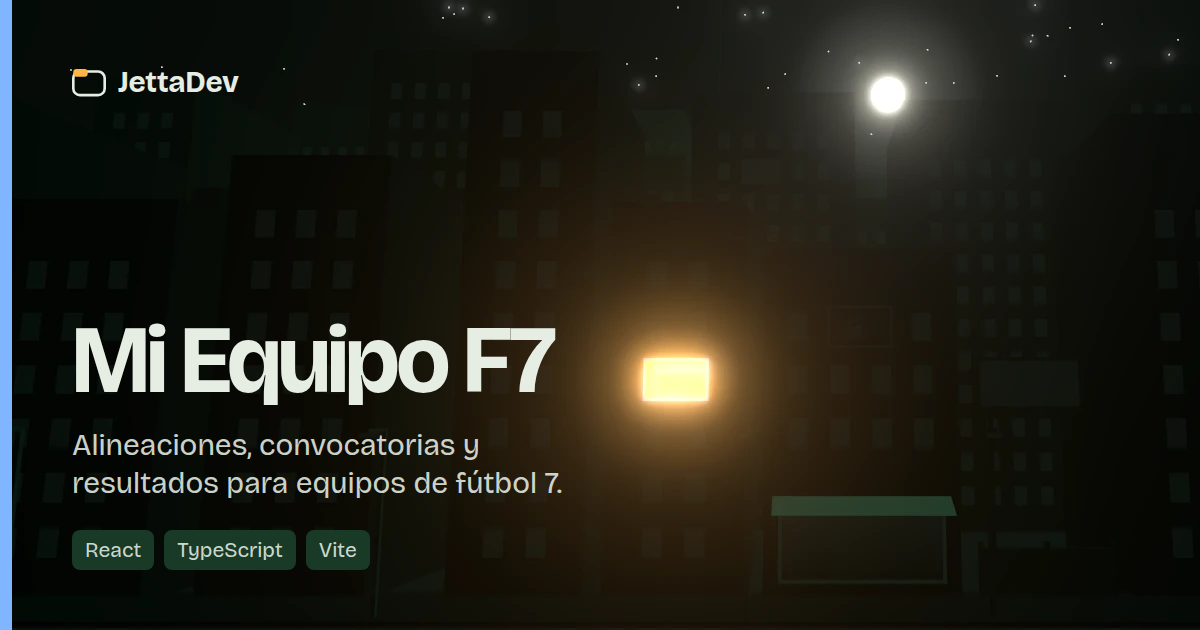
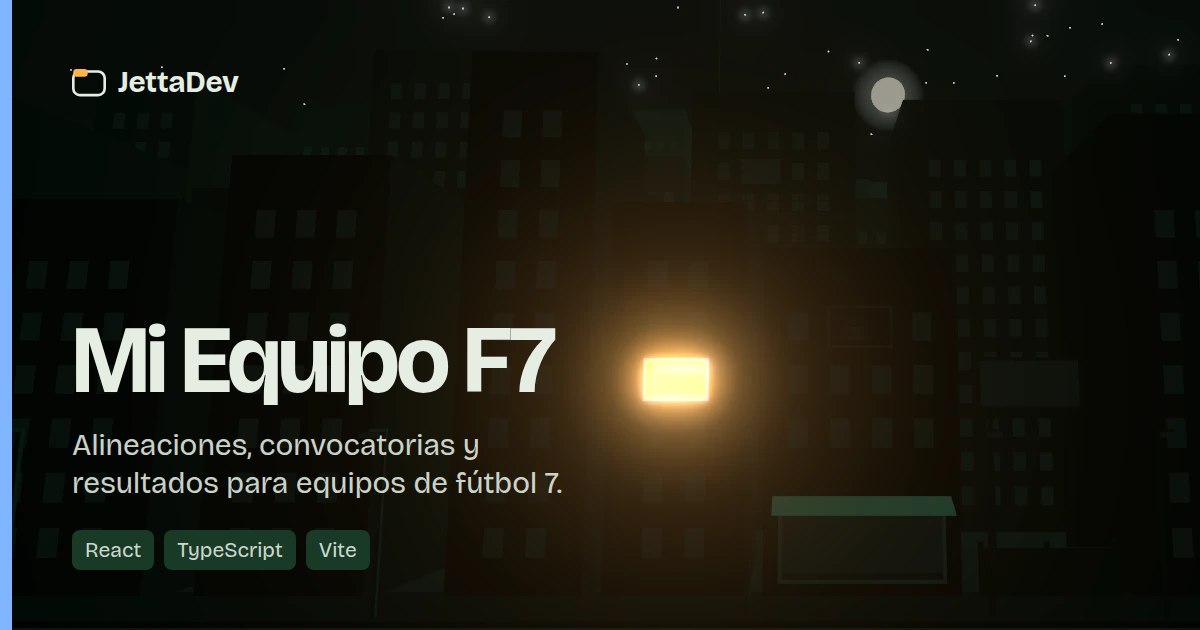
Convierte el escaparate en una vitrina con una tarjeta por app, quita el velo de la luna en móvil, ordena el móvil apaisado e ilumina el solar

Changed region(s): [[0.6475, 0.0, 0.8325, 0.3016]]

diff --git a/src/ciudad/ventanas.ts b/src/ciudad/ventanas.ts
@@ -3,6 +3,7 @@
 import {
   AdditiveBlending,
   Color,
+  DataTexture,
   DoubleSide,
   InstancedMesh,
   Matrix4,
@@ -158,6 +159,8 @@ export interface Ventanales {
   /** Sin bloom, el halo tiene que compensar la luz que falta. */
   sinBloom(activo: boolean): void;
   texturas: Texture[];
+  /** La captura de cada app (en el orden de `datos`), o null si no ha cargado: el escaparate las reutiliza. */
+  capturas: Promise<Texture | null>[];
   /** Se resuelve cuando han cargado (o fallado) todas las capturas. */
   listo: Promise<void>;
   /** Apagón: vidrio a oscuras, sin captura, sin halo y con el marco apagado (salvo `excepto`). */
@@ -171,7 +174,7 @@ export function crearVentanales(trazado: Trazado, datos: DatosVentana[], halo: C
   const luz = new Color(COLORES.calendula);
   let haloBase = 0.22;
   const apagada = new Color(COLORES.apagada);
-  const cargas: Promise<void>[] = [];
+  const cargas: Promise<Texture | null>[] = [];
   const marcos: Mesh<PlaneGeometry, MeshBasicMaterial>[] = [];
 
   const lista = trazado.proyectos.map((trazo, i): Ventanal => {
@@ -201,9 +204,10 @@ export function crearVentanales(trazado: Trazado, datos: DatosVentana[], halo: C
           uniforms.captura.value = textura;
           // Un ventanal apagado ya tiene la luz a oscuras: la captura no se ve
           if (!uniforms.luz.value.equals(apagada)) uniforms.hayCaptura.value = 1;
+          return textura;
         })
         // Sin captura, el ventanal es solo luz: no es motivo para no pintar la ciudad
-        .catch(() => {}),
+        .catch(() => null),
     );
 
     // Marco fino del color de la app, por debajo del umbral del bloom
@@ -253,6 +257,7 @@ export function crearVentanales(trazado: Trazado, datos: DatosVentana[], halo: C
     actualizar,
     sinBloom: (activo) => (haloBase = activo ? 0.42 : 0.22),
     texturas,
+    capturas: cargas,
     listo: Promise.all(cargas).then(() => {}),
     apagar: (excepto) => {
       lista.forEach((v, i) => {
@@ -346,37 +351,28 @@ export function crearEstudio(trazado: Trazado, halo: CanvasTexture): Estudio {
 
 // --- Escaparate de la tienda ----------------------------------------------------------
 
-// El interior de la tienda, en penumbra, con una franja de luz por app en su color: el
-// catálogo visto desde la calle. Las franjas pasan el umbral del bloom y brillan.
-const MAX_FRANJAS = 12;
+// El interior de la tienda: luz cálida y tenue (por debajo del umbral del bloom), más clara
+// arriba, con el suelo en sombra. Delante, las tarjetas de las apps (mallas aparte).
 const fragmentEscaparate = /* glsl */ `
   #include <common>
   #include <fog_pars_fragment>
-  uniform vec3 colores[${MAX_FRANJAS}];
-  uniform float cuantas;
-  uniform float brillo;
-  uniform float ancho;
   uniform vec3 fondo;
+  uniform vec3 calida;
+  uniform float brillo;
   varying vec2 vUv;
   void main() {
     vec2 p = vUv;
-    // Más luz arriba (el techo de la tienda) y el suelo, más oscuro, abajo
-    vec3 color = fondo * (0.5 + 0.7 * smoothstep(0.1, 0.95, p.y));
-    color = mix(color, fondo * 0.3, step(p.y, 0.1));
-    for (int i = 0; i < ${MAX_FRANJAS}; i++) {
-      if (float(i) >= cuantas) break;
-      float cx = 0.14 + 0.72 * (float(i) + 0.5) / cuantas;
-      float d = abs(p.x - cx) * ancho;
-      float franja = (1.0 - smoothstep(0.07, 0.1, d)) * smoothstep(0.16, 0.2, p.y) * (1.0 - smoothstep(0.84, 0.88, p.y));
-      float resplandor = exp(-d * d * 18.0) * smoothstep(0.1, 0.5, p.y) * 0.22;
-      color += colores[i] * (franja * (1.0 + brillo * 0.5) + resplandor * (1.0 + brillo));
-    }
-    // El dintel del escaparate, a contraluz
-    color *= 1.0 - 0.85 * step(0.93, p.y);
+    vec3 color = fondo + calida * (0.55 + 0.45 * smoothstep(0.15, 1.0, p.y)) * (1.0 + brillo * 0.6);
+    color = mix(color, fondo * 0.4, step(p.y, 0.08));
+    // El dintel, a contraluz
+    color *= 1.0 - 0.85 * step(0.94, p.y);
     gl_FragColor = vec4(color, 1.0);
     #include <colorspace_fragment>
     #include <fog_fragment>
   }`;
+
+/** Luz de las capturas expuestas: por debajo del umbral del bloom, para que no brillen como los ventanales. */
+const LUZ_TARJETA = 0.34;
 
 export interface Escaparate {
   objetivo: Objetivo;
@@ -385,17 +381,62 @@ export interface Escaparate {
   apagar(): void;
 }
 
-export function crearEscaparate(trazado: Trazado, datos: DatosVentana[], halo: CanvasTexture): Escaparate {
+/**
+ * El escaparate es una luna de cristal ancha con luz cálida dentro y, expuesta, una tarjeta por
+ * app como las del catálogo: su captura 16:10 con un marco fino en su `hue` y un pie oscuro.
+ * Caben todas: con más apps, las tarjetas se encogen (y pasan a dos filas desde la quinta).
+ */
+export function crearEscaparate(trazado: Trazado, datos: DatosVentana[], capturas: Promise<Texture | null>[], halo: CanvasTexture): Escaparate {
   const e = trazado.escaparate;
   const posicion = new Vector3(e.x, e.y, e.z);
-  const colores = Array.from({ length: MAX_FRANJAS }, (_, i) => new Color(datos[i]?.hue ?? '#000000'));
   const uniforms = UniformsUtils.merge([
     UniformsLib.fog,
-    { cuantas: { value: Math.min(datos.length, MAX_FRANJAS) }, brillo: { value: 0 }, ancho: { value: e.ancho }, fondo: { value: new Color(COLORES.tienda) } },
+    { fondo: { value: new Color(COLORES.tienda).multiplyScalar(0.5) }, calida: { value: new Color(COLORES.calendula).multiplyScalar(0.035) }, brillo: { value: 0 } },
   ]);
-  uniforms.colores = { value: colores };
   const vidrio = new Mesh(new PlaneGeometry(e.ancho, e.alto), new ShaderMaterial({ uniforms, vertexShader, fragmentShader: fragmentEscaparate, fog: true }));
   vidrio.position.copy(posicion);
+
+  // Tarjetas: en una fila (dos desde la quinta app), centradas un poco por encima del suelo de la tienda
+  const n = datos.length;
+  const filas = n > 4 ? 2 : 1;
+  const porFila = Math.ceil(n / filas);
+  const hueco = 0.14;
+  const util = { ancho: e.ancho * 0.86, alto: e.alto * 0.72 };
+  const ancho = Math.min(1.3, (util.ancho - hueco * (porFila - 1)) / porFila, ((util.alto - hueco * (filas - 1)) / filas - 0.08) * 1.6);
+  const alto = ancho / 1.6;
+  const tarjetas: Mesh<PlaneGeometry, MeshBasicMaterial>[] = [];
+  const piezas: Object3D[] = [];
+  const pie = new MeshBasicMaterial({ color: '#081510', toneMapped: false });
+  // Textura provisional del color del interior: con un mapa desde el principio, poner la captura
+  // no cambia el programa del material (cambiarlo obligaría a recompilar el shader en pleno vuelo)
+  const provisional = new DataTexture(Uint8Array.from([...new Color(COLORES.tienda).toArray().map((v) => Math.round(v * 255)), 255]), 1, 1);
+  provisional.needsUpdate = true;
+  datos.forEach((d, i) => {
+    const fila = Math.floor(i / porFila);
+    const enFila = fila === filas - 1 ? n - porFila * (filas - 1) : porFila;
+    const col = i - fila * porFila;
+    const x = e.x + (col - (enFila - 1) / 2) * (ancho + hueco);
+    const y = e.y + 0.08 + ((filas - 1) / 2 - fila) * (alto + hueco + 0.08);
+    const z = e.z + 0.02;
+
+    const tono = new Color(d.hue);
+    const luminancia = tono.r * 0.299 + tono.g * 0.587 + tono.b * 0.114;
+    if (luminancia > LUMINANCIA_MARCO) tono.multiplyScalar(LUMINANCIA_MARCO / luminancia);
+    const marco = new Mesh(new PlaneGeometry(ancho + 0.05, alto + 0.05), new MeshBasicMaterial({ color: tono, toneMapped: false }));
+    marco.position.set(x, y, z - 0.004);
+    // Hasta que llega la captura, la tarjeta es un rectángulo del color del interior
+    const tarjeta = new Mesh(new PlaneGeometry(ancho, alto), new MeshBasicMaterial({ map: provisional, toneMapped: false }));
+    tarjeta.position.set(x, y, z);
+    const base = new Mesh(new PlaneGeometry(ancho * 0.4, 0.08), pie);
+    base.position.set(x, y - alto / 2 - 0.06, z);
+    capturas[i]?.then((t) => {
+      if (!t || !tarjeta.visible) return;
+      tarjeta.material.map = t;
+      tarjeta.material.color.setScalar(LUZ_TARJETA);
+    });
+    tarjetas.push(tarjeta);
+    piezas.push(marco, tarjeta, base);
+  });
 
   // Marco del escaparate y toldo inclinado hacia la calle
   const oscuro = new MeshBasicMaterial({ color: '#0b1a12', toneMapped: false });
@@ -406,10 +447,10 @@ export function crearEscaparate(trazado: Trazado, datos: DatosVentana[], halo: C
   toldo.rotation.x = -Math.PI / 2 + 0.5;
   toldo.position.y -= (e.toldo.vuelo / 2) * Math.sin(0.5);
 
-  // La luz de la tienda cae sobre la acera
+  // La luz cálida de la tienda cae sobre la acera
   const charco = new Mesh(
     new PlaneGeometry(e.ancho * 1.6, 2.2),
-    new MeshBasicMaterial({ map: halo, color: '#8fb3a0', transparent: true, opacity: 0.16, depthWrite: false, blending: AdditiveBlending }),
+    new MeshBasicMaterial({ map: halo, color: '#b39066', transparent: true, opacity: 0.14, depthWrite: false, blending: AdditiveBlending }),
   );
   charco.rotation.x = -Math.PI / 2;
   charco.position.set(e.x, 0.13, e.z + 1);
@@ -422,14 +463,17 @@ export function crearEscaparate(trazado: Trazado, datos: DatosVentana[], halo: C
   toque.userData.objetivo = objetivo;
   return {
     objetivo,
-    objetos: [marco, vidrio, toldo, charco, toque],
+    objetos: [marco, vidrio, ...piezas, toldo, charco, toque],
     actualizar: () => {
       uniforms.brillo.value = objetivo.brillo;
-      charco.material.opacity = charco.visible ? 0.16 + Math.min(objetivo.brillo, 1) * 0.12 : 0;
+      charco.material.opacity = charco.visible ? 0.14 + Math.min(objetivo.brillo, 1) * 0.1 : 0;
+      for (const t of tarjetas) if (t.material.map !== provisional) t.material.color.setScalar(LUZ_TARJETA * (1 + Math.min(objetivo.brillo, 1) * 0.35));
     },
     apagar: () => {
-      uniforms.cuantas.value = 0;
       uniforms.fondo.value.set(COLORES.apagada);
+      uniforms.calida.value.setScalar(0);
+      tarjetas.forEach((t) => (t.visible = false));
+      piezas.forEach((p) => (p.visible = false));
       charco.visible = false;
     },
   };

diff --git a/src/ciudad/edificios.ts b/src/ciudad/edificios.ts
@@ -185,7 +185,7 @@ export interface Solar {
   apagar(): void;
 }
 
-export function crearSolar(trazado: Trazado): Solar {
+export function crearSolar(trazado: Trazado, halo: CanvasTexture): Solar {
   const { solar } = trazado;
   const material = new MeshLambertMaterial({ color: COLOR_OBRA });
   const geometria = caja();
@@ -213,6 +213,20 @@ export function crearSolar(trazado: Trazado): Solar {
   tablero.position.set(c.x, c.y, c.z + 0.05);
   grupo.add(tablero);
 
+  // Luz sobre la valla (la de la farola de al lado) y el foco del cartel: el solar se lee como un
+  // hueco iluminado entre dos edificios, no como un cartel flotando delante de la fachada de detrás
+  const luz = (ancho: number, alto: number, opacidad: number) =>
+    new Mesh(new PlaneGeometry(ancho, alto), new MeshBasicMaterial({ map: halo, color: '#9fbfae', transparent: true, opacity: opacidad, depthWrite: false, blending: AdditiveBlending }));
+  // Ancha y baja: una franja de luz a lo largo de la valla, más fuerte del lado de la farola
+  const sobreValla = luz(solar.ancho * 1.5, 1.1, 0.14);
+  sobreValla.position.set(solar.x + 0.5, 0.55, solar.z + 0.08);
+  const foco = new Mesh(geometria, new MeshBasicMaterial({ color: new Color(COLORES.farola).multiplyScalar(0.5), toneMapped: false }));
+  foco.scale.set(c.ancho * 0.7, 0.06, 0.12);
+  foco.position.set(c.x, c.y + c.alto / 2 + 0.04, c.z + 0.12);
+  const sobreCartel = luz(c.ancho * 1.4, c.alto * 1.6, 0.16);
+  sobreCartel.position.set(c.x, c.y + 0.1, c.z + 0.08);
+  grupo.add(sobreValla, foco, sobreCartel);
+
   // Zona de toque: el cartel y la valla
   const toque = new Mesh(new PlaneGeometry(Math.max(c.ancho, solar.ancho), c.y + c.alto / 2 + 0.3), new MeshBasicMaterial({ colorWrite: false, depthWrite: false }));
   toque.position.set(c.x, (c.y + c.alto / 2 + 0.3) / 2, solar.z + 0.1);
@@ -223,6 +237,9 @@ export function crearSolar(trazado: Trazado): Solar {
     objeto: grupo,
     objetivo,
     actualizar: () => tablero.material.color.copy(apagado).multiplyScalar(1 + objetivo.brillo * 1.5),
-    apagar: () => apagado.set(COLORES.apagada),
+    apagar: () => {
+      apagado.set(COLORES.apagada);
+      [sobreValla, foco, sobreCartel].forEach((o) => (o.visible = false));
+    },
   };
 }

diff --git a/src/ciudad/escena.ts b/src/ciudad/escena.ts
@@ -113,15 +113,17 @@ function estrellas(cantidad: number, azar: () => number): Points {
 
 function luna(halo: CanvasTexture): Group {
   const grupo = new Group();
-  // Por encima de ~0,7 deslumbra con el bloom (sobre todo en un móvil, donde ocupa más pantalla)
+  // Por debajo del umbral del bloom (luminancia < 0,32) en todos los niveles: con bloom a media
+  // resolución (móviles) su resplandor velaba media pantalla. El halo viene del sprite, contenido,
+  // y el disco lo tapa por dentro (prueba de profundidad), así que tampoco pasa el umbral.
   const cuerpo = new Mesh(
     new SphereGeometry(6, 32, 16),
-    new MeshBasicMaterial({ color: new Color(COLORES.luna).multiplyScalar(0.7), fog: false, toneMapped: false }),
+    new MeshBasicMaterial({ color: new Color(COLORES.luna).multiplyScalar(0.36), fog: false, toneMapped: false }),
   );
   const brillo = new Sprite(
-    new SpriteMaterial({ map: halo, color: '#cfe0d4', opacity: 0.08, transparent: true, depthWrite: false, fog: false, blending: AdditiveBlending }),
+    new SpriteMaterial({ map: halo, color: '#cfe0d4', opacity: 0.2, transparent: true, depthWrite: false, fog: false, blending: AdditiveBlending }),
   );
-  brillo.scale.setScalar(70);
+  brillo.scale.setScalar(26);
   grupo.add(brillo, cuerpo);
   // Un poco a la derecha y por encima del perfil de la ciudad: con la cámara casi en horizontal,
   // también asoma en un móvil en vertical

diff --git a/src/ciudad/index.ts b/src/ciudad/index.ts
@@ -82,12 +82,14 @@ export async function montarCiudad(canvas: HTMLCanvasElement, datos: DatosVentan
   const escena = crearEscena(semilla, halo, { pocasEstrellas: nivel !== 'alto' });
   const edificios = crearEdificios(trazado);
   const calle = crearCalle(trazado, halo);
+  await ceder();
   const huecos = crearHuecos(trazado);
+  await ceder();
   const ventanales = crearVentanales(trazado, datos, halo);
   const obras = crearObras(trazado);
-  const solar = crearSolar(trazado);
+  const solar = crearSolar(trazado, halo);
   const estudio = crearEstudio(trazado, halo);
-  const escaparate = crearEscaparate(trazado, datos, halo);
+  const escaparate = crearEscaparate(trazado, datos, ventanales.capturas, halo);
   escena.add(edificios, calle.objeto, huecos.malla, ...ventanales.objetos, ...obras.objetos, solar.objeto, ...estudio.objetos, ...escaparate.objetos);
   if (opciones.apagon) {
     [calle, huecos, obras, solar, estudio, escaparate].forEach((parte) => parte.apagar());

diff --git a/src/ciudad/trazado.ts b/src/ciudad/trazado.ts
@@ -423,10 +423,12 @@ export function trazarCiudad(apps: AppEnCiudad[], semilla = SEMILLA): Trazado {
     }
   });
 
-  // --- La calle: farolas en el borde de la acera, entre los lotes de la manzana y luego cada 7
+  // --- La calle: farolas en el borde de la acera, entre los lotes de la manzana, junto al solar y luego cada 7
   const entreLotes = MANZANA.tienda.ancho / 2 + MANZANA.separacion / 2;
   const farolas: number[] = [];
   for (let x = entreLotes; x < ANCHO_CIUDAD; x += 7) farolas.push(-x, x);
+  // Una más al otro lado del solar: su luz cae sobre la valla y el hueco se lee entre los edificios
+  farolas.push(MANZANA.solar.x + MANZANA.solar.ancho / 2 + 0.25);
   const calle: Calle = {
     fachada: CALLE.fachada,
     bordillo: CALLE.fachada + CALLE.acera,
